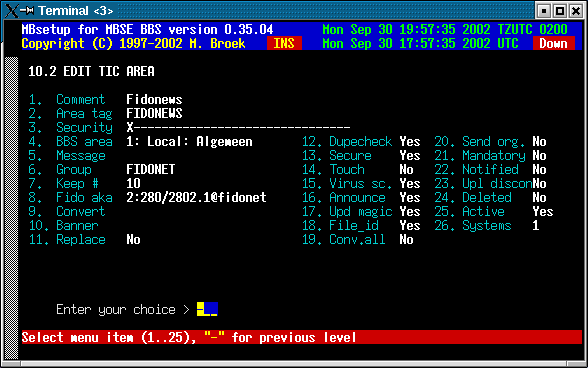
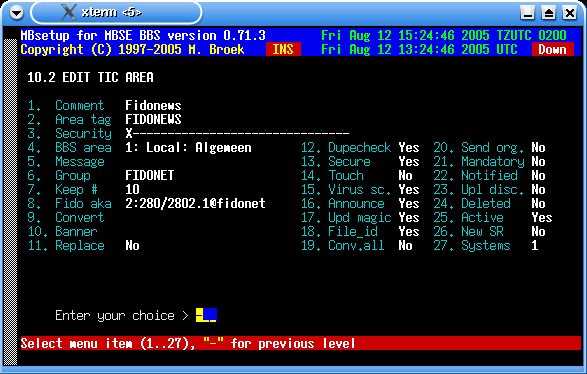
Bumped to development version 0.71.4

Changed region(s): [[0.0, 0.0, 1.0, 1.0], [0.092, 0.8071, 0.368, 0.8668], [0.2147, 0.6277, 0.2453, 0.6875]]

diff --git a/html/setup/fileecho.html b/html/setup/fileecho.html
@@ -14,7 +14,7 @@
 </HEAD>
 <BODY>
 <BLOCKQUOTE>
-<div align="right"><h5>Last update 30-Sep-2002</h5></div>
+<div align="right"><h5>Last update 12-Aug-2005</h5></div>
 <div align="center"><H1>MBSE BBS Setup - File Echo's Setup - TIC Areas.</H1></div>
 
 <H3>Introduction.</H3>
@@ -59,6 +59,7 @@ the number of files (nodelists).
 <strong>Upl discon </strong>Not in use yet.
 <strong>Deleted    </strong>If this area must be deleted.
 <strong>Active     </strong>If this area is active.
+<strong>New SR     </strong>Give new node links the status SR instead of S.
 <strong>Systems    </strong>To the screen with connected systems.
 </pre>
 <P>

diff --git a/mbfido/mgrutil.c b/mbfido/mgrutil.c
@@ -4,7 +4,7 @@
  * Purpose ...............: AreaMgr and FileMgr utilities.
  *
  *****************************************************************************
- * Copyright (C) 1997-2004
+ * Copyright (C) 1997-2005
  *   
  * Michiel Broek		FIDO:		2:280/2802
  * Beekmansbos 10
@@ -865,14 +865,6 @@ int Areas(void)
 			fflush(stdout);
 		    }
 
-		    /*
-		     * Now we have a list of actions to perform
-		     */
-		    Syslog('F', "Area tag             Oke Del");
-		    for (tmp = alist; tmp; tmp = tmp->next) {
-			Syslog('F', "%-20s %s %s", tmp->Name, tmp->IsPresent?"Yes":"No ", tmp->DoDelete?"Yes":"No ");
-		    }
-		    
 		    /*
 		     * Make modification, first add missing areas
 		     */
